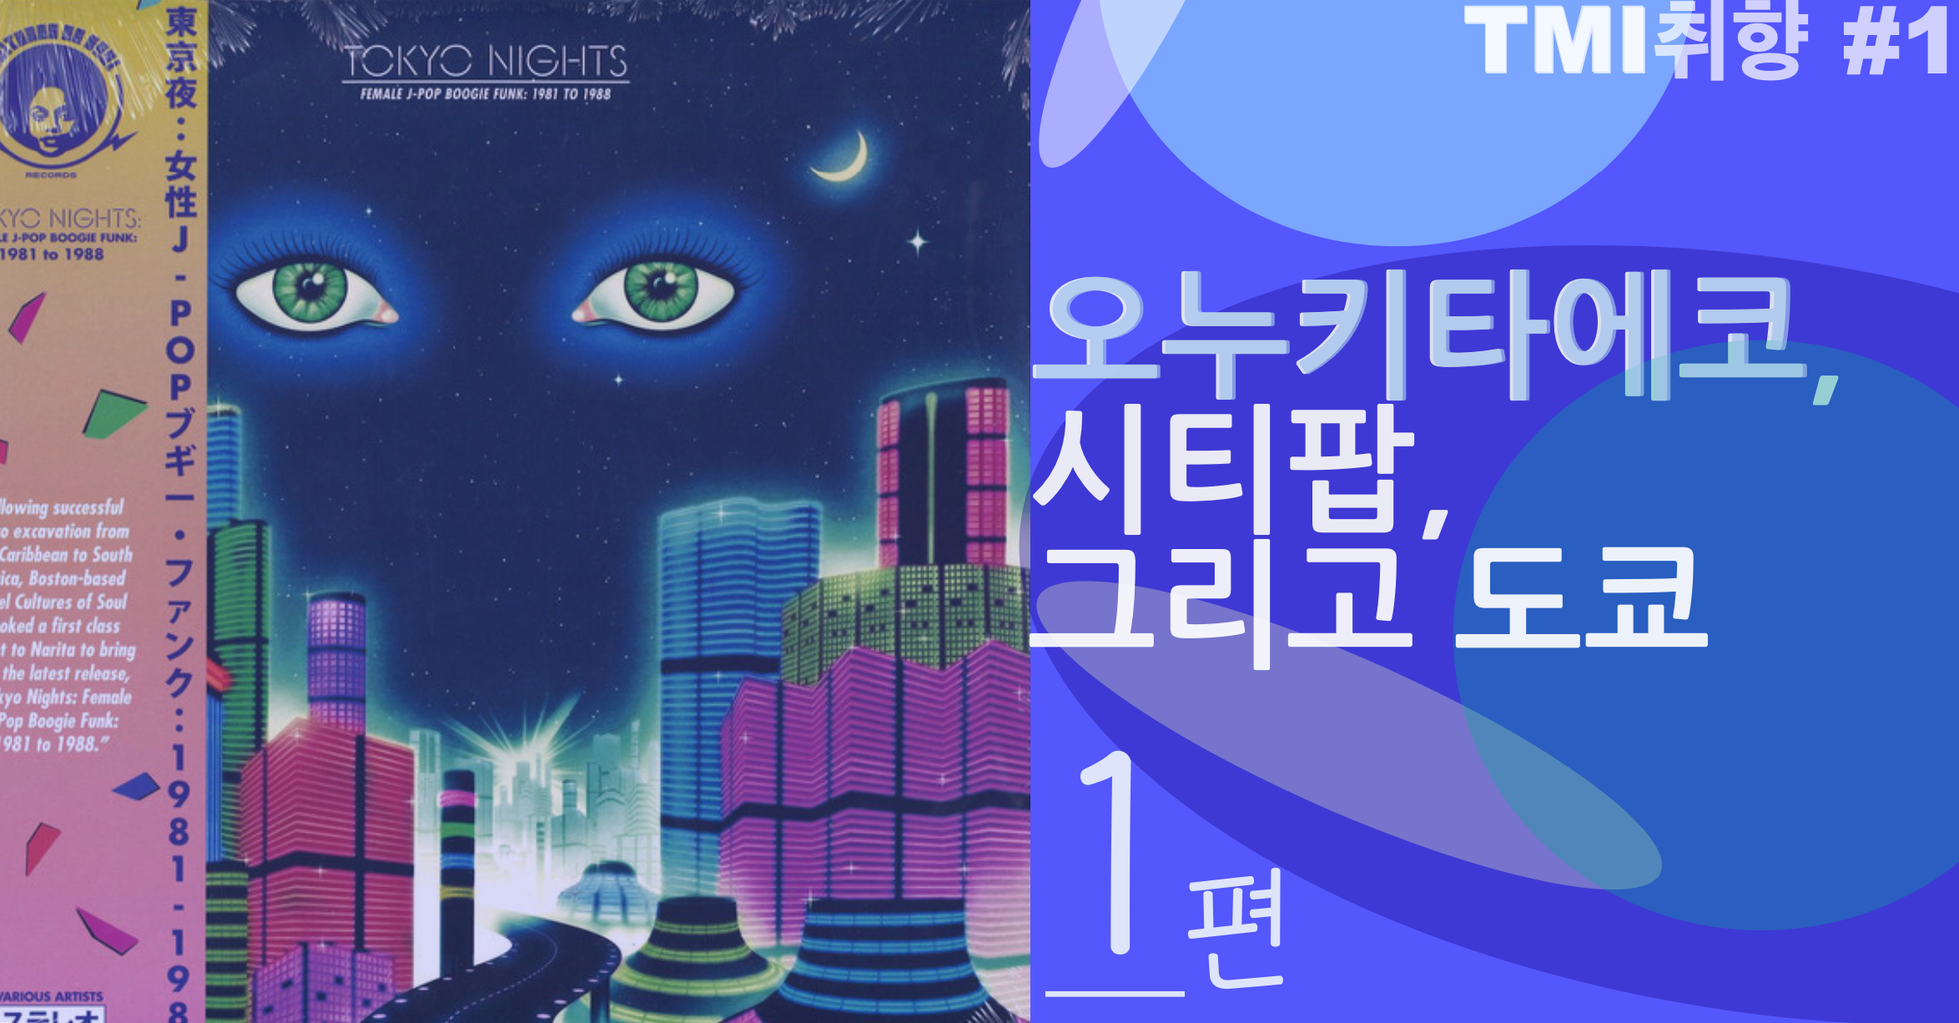
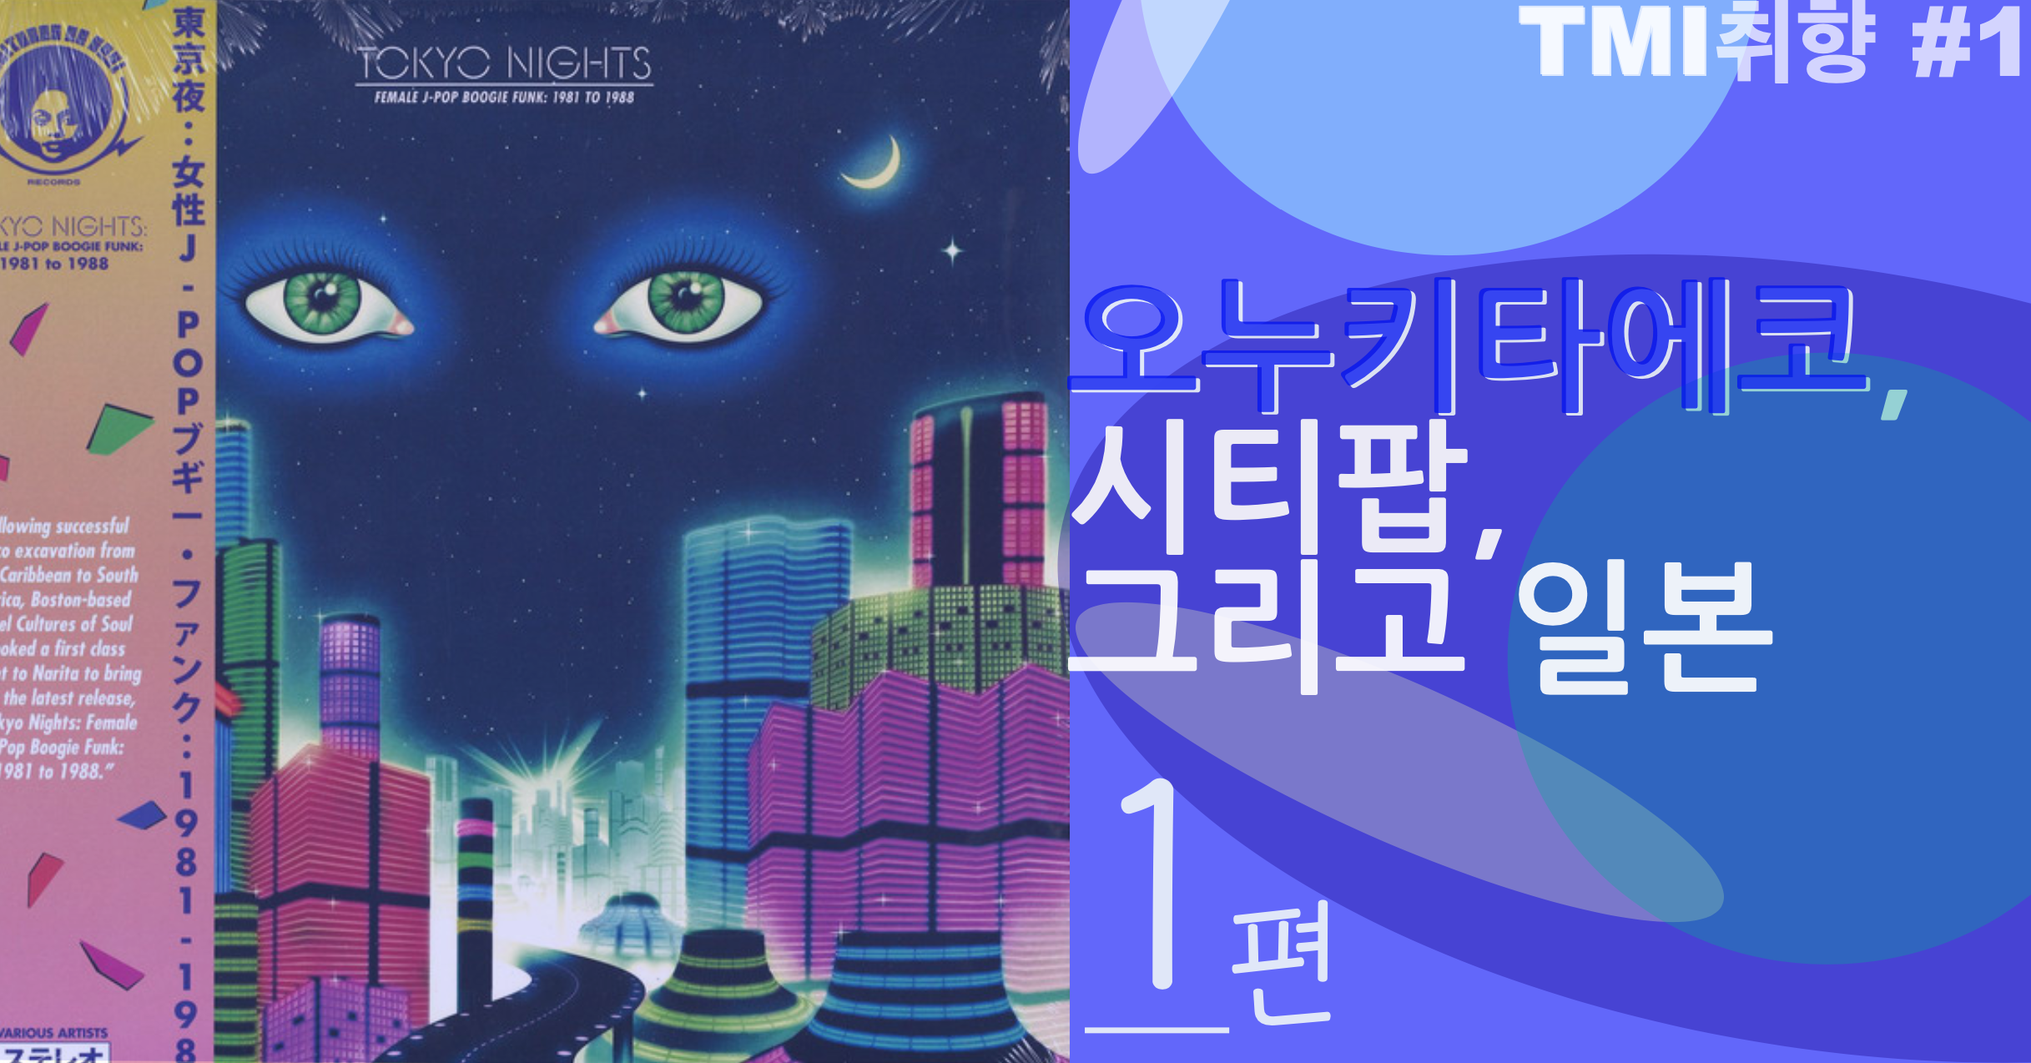
스쿠피포스팅6번(씨티팝)포스팅수정7
썸네일 이미지 변경
글 수정 (거의 마무리 단계)

diff --git a/assets/scss/_global.scss b/assets/scss/_global.scss
@@ -80,7 +80,7 @@ img::-moz-selection {
 
 
 ///넷플릭스 start////
-// 상위메뉴
+// 배경 그레이/ 폰트 빨강색 (큰)
 .highlight_b_red{
   background-color: #b71c1c;
   color: white;
@@ -99,7 +99,7 @@ code{
   font-size: 0.7em;
 }
 
-// 배경 그레이/ 폰트 빨강색 (큰)
+// 배경 그레이/ 폰트 빨강색 (작)
 .highlight_s_red{
   background-color: rgb(248, 248, 248);
   box-sizing: border-box;
@@ -144,12 +144,23 @@ code{
 
 
 ///오누키 타에코///
+// 배경 그레이/ 폰트 청록 (큰)
 .highlight_b_green{
-  background-color: #e0f2f1 ;
+  background-color: #e0f2f1;
   color: black;
   border-radius:4px;
   font-size: 1.3em;
   padding:5px;
+}
+
+// 배경 그레이/ 폰트 청록 (작)
+.highlight_s_green{
+  background-color: rgb(248, 248, 248);
+  box-sizing: border-box;
+  border-radius: 3px;
+  padding: 5px 10px 5px 15px;
+  color: #00897b;
+  font-size: 0.8em;
 }
 
 //오누키타에코 가사//

diff --git a/_posts/2020-06-06-scoopii-06.md b/_posts/2020-06-06-scoopii-06.md
@@ -1,7 +1,7 @@
 ---
 layout: post
 permalink: /tmi1-scoopii-01/
-title: '오누키타에코,시티팝, 그리고 도쿄 <1편>'
+title: '오누키타에코,시티팝, 그리고 일본 <1편>'
 date: 2020-06-07 16:00:00 +09:00
 feature: '/img/posts/06/post6_feature1.png'
 background: '/img/posts/06/post6_background.png'
@@ -21,7 +21,11 @@ tags:
 description: '스쿠피의 취향과 영감을 tmi로 큐레이팅합니다 '
 ---
 
-이하 글들은 스쿠피운영자의 취향과 영감이 두서없이 써내려가져 누군가에겐 정보가, 누군가에겐 tmi가 될 거에요. 어찌되었든 상관없어요. 스쿠피의 취향은 소중하고 당신의 취향도 존중받아 마땅하니까요. 정보가 너무 길다고 생각하시는 분들, 혹은 tmi에 가담해주실 분들은 아래 댓글창에 귀중한 의견을 꼭 남겨주세요 :)
+이하 글들은 스쿠피운영자의 취향과 영감이 두서없이 써내려가져 누군가에겐 정보가, 누군가에겐 tmi가 될 거에요. 어찌되었든 상관없어요. 스쿠피의 취향은 소중하고 당신의 취향도 존중받아 마땅하니까요.
+
+<br>
+
+정보가 너무 길어서 가독성이 없다고 생각하시는 분들, 혹은 tmi에 가담해주실 분들은 아래 댓글창에 귀중한 의견을 꼭 남겨주세요 :)
 
 ----
 
@@ -33,19 +37,27 @@ description: '스쿠피의 취향과 영감을 tmi로 큐레이팅합니다 '
 
 <br>
 
-TMI취향의 첫번째 글은 3편으로 나뉘어질 거에요. 
+TMI취향의 **첫번째 시리즈 제목**은 다음과 같습니다. 글은 총 3번에 나뉘어 포스팅될 예정이에요.
 
-<span style="font-size: 1.1em; background-color: #4db6ac; color: white; padding: 4px; border-radius: 4px;"> 제목: 오누키타에코,시티팝, 그리고 도쿄 1편</span>
+<span style="font-size: 1.1em; background-color: #4db6ac; color: white; padding: 4px; border-radius: 4px;"> 제목: 오누키타에코,시티팝, 그리고 일본 1편</span>
 
->  1편: 오누키타에코
+>  1편: 오누키타에코   `부제: 화려한 도시의 밤과 버블`
 >
 >  2편: 시티팝
 >
->  3편: 도쿄
+>  3편: 일본
 
 <br>
 
-오늘은 그 중에서도 1편인 오누키타에코에 대해 이야기해볼 거에요. 
+오늘은 그 중에서도 1편인 <span class="highlight_s_green">오누키 타에코</span>에 대해 이야기해볼 거에요. 오누키 타에코가 뭐냐구요? 일본어 좀 안다 하시는 분들은 바로 사람이라는 걸 알았을거에요.
+
+<br>
+
+일본의 여성 이름 뒤에는 주로 ~코(子)로 끝나는 경우가 많아요. `에츠코`, `아야코`, 등. 일제강점기 출생 할머니들의 이름 끝에 '자'가 많은 게 이때문이죠. `순자`, `미자`, `연자` 등.
+
+ <br>
+
+처음부터 tmi가 시작되었네요. 무튼, 오누키 타에코는 사람이름이며 일본  <span class="highlight_s_green">시티팝이라고 하면 화자되는 대표적인 아티스트</span>에요.
 
 <br>
 
@@ -69,7 +81,7 @@ TMI취향의 첫번째 글은 3편으로 나뉘어질 거에요.
 
 전 무언가에 집중하면 숨을 참는 편이에요.  그래서 음악을 들으면서 명상하는 습관을 가지게 되었는데, 이 날도 여김없이 그 순간이 필요했어요.
 
-> <span style="font-size: 0.8em;"> 명상은 고등학생일 때 생겨난 저만의 습관이자 취미에요. 항상 똑같은 음악을 들으면서 똑같은 이미지를 머리 속에 상기시켜요. 음악은 `류이치 사카모토의 'A Flower is Not a Flower'`, `이미지는 창 밖 바람에 흔들리는 나무`에요.</span>
+> <span style="font-size: 0.8em;"> 명상은 고등학생일 때 생겨난 저만의 습관이자 취미에요. 항상 똑같은 음악을 들으면서 똑같은 이미지를 머리 속에 상기시켜요. 음악은 `류이치 사카모토의 'A Flower is Not a Flower'`, 이미지는 `창 밖 바람에 흔들리는 나무`에요.</span>
 
 <br>
 
@@ -91,7 +103,15 @@ TMI취향의 첫번째 글은 3편으로 나뉘어질 거에요.
 
 <br>
 
-그게 저와 그녀와의 첫 운명적인 만남이에요. 결국 이 글을 쓰게 된 계기이기도 하구요. 나중에 안 사실인데, 유튜브에서 곧잘 들었던 노래가 하나 있었거든요.  `都会(도시)`라는 노래에요. 그 노래를 불렀던 가수가 오누키 타에코였어요. `진짜 찐 운명...`
+> <span style="font-size: 0.8em;">참고로 이 `UTAU 앨범`은  ''오누키 타에코가 부르는 사카모토류이치의 곡''이에요.</span>
+>
+> <span style="font-size: 0.8em;"> 앨범 타이틀 '우타우'는 일본어로 '노래하다'는 뜻의 동사원형인 '우타우(歌う)'를 알파벳으로 표기한 것이구요.[`C&L뮤직 원문`](https://mobile.newsis.com/view.html?ar_id=NISX20131213_0012589781)</span>
+
+<br>
+
+
+
+그게 저와 그녀와의 첫 운명적인 만남이에요. 결국 이 글을 쓰게 된 계기이기도 하구요. 나중에 안 사실인데, 유튜브에서 곧잘 들었던 노래가 하나 있었거든요.  `都会(도시)`라는 노래에요. 그 노래를 불렀던 가수가 오누키 타에코였어요. `나만 생각하는 찐 운명...`
 
 <br>
 
@@ -111,7 +131,11 @@ TMI취향의 첫번째 글은 3편으로 나뉘어질 거에요.
 
 <br>
 
-위키피디아에 수록된 글을 읽으니 류이치사카모토와  UTAU의 앨범으로 콜라보 한 것이 괜한 우연이 아니었네요. `오래된 짱친이었던 것이야..`
+위키피디아에 수록된 글을 읽으니 류이치사카모토와  UTAU의 앨범으로 콜라보 한 것이 괜한 우연이 아니었네요. `오래된 짱친이었던 것이야..(괜히 흐뭇)`
+
+<br>
+
+그래서 위키피디아에서 가져온 몇 가지 인터뷰 글들을 번역해보았어요. 궁금하신 분들은 읽어보시고, 안 그런 분들은 **볼드**처리한 부분만 읽으셔요!
 
 <br>
 
@@ -127,7 +151,21 @@ TMI취향의 첫번째 글은 3편으로 나뉘어질 거에요.
 
 <br>
 
-이 앨범 중 **都会**라는 노래는 들을 때마다 신기하게도 제가 봤던 온갖 영화들의 장면이 떠올라요.  각 영화 한 편이 아니라 각 영화의 한 장면이요.  경쾌한 재즈풍 멜로디에 어쩐지 슬퍼지는 가사 때문인지도 모르겠어요. 도쿄라는 거대한 대도시 안에서 곳곳이 느껴지던 저의 원인 모를 고독함이 원인일 지도 모르겠구요.  무튼 노래 속 그녀의 목소리가 주는 이미지들이 몇 개 있어요. 오누키는 이 노래에 대한 감회를 이렇게 표현했네요. `이 인터뷰를 읽고, 그녀의 의도에 100%맞게 음악을 감상하고 있었던 절 발견했어요. `
+<center><iframe src="https://giphy.com/embed/ka0pMxG6T6h9lEhlgp" width="480" height="240" frameBorder="0" class="giphy-embed" allowFullScreen></iframe><p><a href="https://giphy.com/gifs/netflix-ka0pMxG6T6h9lEhlgp"></a></p></center><center><span class="ref_url">찐팬의 마음</span></center>
+
+<br>
+
+내가 좋아하는 아티스트들이 서로 좋아할 때 찐팬의 감정이란...너무 흐뭇하네요.
+
+<br>
+
+이 앨범 중 **都会**라는 노래는 들을 때마다 신기하게도 제가 봤던 온갖 영화들과 cf, 일본애니메이션 내 특정 장면들이 떠올라요.
+
+>  <span style="font-size: 0.8em;">경쾌한 재즈풍 멜로디에 어쩐지 **슬퍼지는 가사** 때문인지도 모르겠어요. 도쿄라는 거대한 대도시 안에서 곳곳이 느껴지던 저의 **원인 모를 고독함**이 원인일 지도 모르겠구요.  </span>
+
+<br>
+
+무튼 노래 속 그녀의 목소리가 주는 이미지들이 몇 개 있어요. 오누키는 이 노래에 대한 감회를 이렇게 표현했네요. `이 인터뷰를 읽고, 그녀의 의도에 100%맞게 음악을 감상하고 있었던 절 발견했어요. `
 
 <br>
 
@@ -157,7 +195,7 @@ TMI취향의 첫번째 글은 3편으로 나뉘어질 거에요.
 | 夜明けまで           |      | <span class="table1">새벽녘까지</span> |
 | 付き合うと言うの     |      | <span class="table1">만나자고 하는거야</span> |
 |  | |  |
-| 泡のように増え続け   |      | <span class="table1">거품처럼 계속 부풀어올라</span> |
+| 泡のように増え続け   |      | <span class="table1"><span class="highlight_s_green">거품</span>처럼 계속 부풀어올라</span> |
 | あてもない人の洪水 |      | <span class="table1">정처없이 떠도는 수많은 사람들</span> |
 | 不思議な裏の世界     |      | <span class="table1">불가사의한 밤의 세계와</span> |
 | 私はさよならする     |      | <span class="table1">나는 작별할래</span> |
@@ -174,37 +212,123 @@ TMI취향의 첫번째 글은 3편으로 나뉘어질 거에요.
 
 <br>
 
-전 가사를 읽으니 70-80년대 일본 열도를 휘감고 있었던, 그 `경제적 낙관주의`가 만들어 낸  당시 도시의 화려한 풍경들이 생각났어요.
+저의 경우, 가사를 읽으니 70-80년대 일본 열도를 휘감고 있었던, 그 <span class="highlight_s_green">경제적 낙관주의</span>가 만들어 낸  당시 도시의 화려한 풍경들이 생각나더라구요.
 
 <br>
 
-<center><img src="/img/posts/06/Jp1.png" style="width:50%; height: 100%;"></center>
+한 때, 각종 포털이나 커뮤니티사이트에서 **일본의 60년대가 한국의 90년대**라는 글이 화제가 된 적이 있었잖아요. 아래 사진들을 보면 정말 20년 앞서가고 있는 나라라는 문장이 이해가 되더라구요.
 
-<center><span class="ref_url">1970년 오사카엑스포공원</span></center>
+![tokyo60_01](/img/posts/06/tokyo1.png)
 
+![tokyo60_02](/img/posts/06/tokyo2.png)
 
+<img src="/img/posts/06/tokyo3.jpg" style="width:100%;"> 
 
-<center><img src="/img/posts/06/Jp2.png" style="width:50%; height: 100%;"></center>
-
-<center><span class="ref_url">1977년 도쿄</span></center>
+<img src="/img/posts/06/tokyo4.jpg" style="width:100%;"> 
 
 <br>
 
->  <span style="font-size: 0.8em;">일본은 1950년 이후로 눈부신 경제성장을 이루어냈죠. 한국과는 다르게말이에요. 한국은 일본으로부터 독립한 후 곧바로 6.25전쟁을 치루었잖아요.  부모님이 흔히 말씀하시곤 했던 `"그 땐 먹고살기 바빠"` 나라의 경제를 돌 볼 여유가 없었죠.  </span>
+>  <span style="font-size: 0.8em;">그래서, 이 노래를 들을때면 그 때 그 화려한 도시의 젊은이들과 이를 덧없게 쓸쓸하게 바라보는 한 여자가 떠오른달까요?</span>
+
+<br>
+
+또, 한때 일본의 <span class="highlight_s_green">치비마루코짱</span>과 한국의 <span class="highlight_s_green">검정고무신</span>을 비교한 글도 화제가 됐었죠. 두 애니메이션 모두 60년대 후반~70년대 초반을 배경으로 한 애니에요. 
+
+> *  <span style="font-size: 0.8em;">같은 1960~1970년대를 배경으로 한 검정 고무신, 치비마루코짱을 서로 비교해보면 당시 한일 양국간의 경제적, 문화적, 사회적 격차를 짐작할 수 있어요. </span>
 >
->  <span style="font-size: 0.8em;">반면, 6.25전쟁은 일본에게 있어 `신이 내린 기회`였어요. 한국은 당시 전쟁으로 인하여 내부적으로 군수차량 및 물품생산의 수요가 있었고, 일본의 도요타는 이 기회를 놓치지 않았죠. 자동찬 생산기술의 발전이 시작된 첫 시발점이라고 볼 수 있겠네요.</span>
+> * <span style="font-size: 0.8em;">같은 시기에 한국은 이제 막 전쟁의 상처를 지워내고 본격적인 산업화에 돌입했던 반면, 일본은 [1958 도쿄 아시안 게임](https://namu.wiki/w/1958 도쿄 아시안 게임)과 [1964 도쿄 올림픽](https://namu.wiki/w/1964 도쿄 올림픽)을 통해 화려한 부활을 알린 뒤, [1970 오사카 엑스포](https://namu.wiki/w/1970 오사카 엑스포)까지 개최하면서 선진국 대열에 진입하기 시작했죠.</span>
 >
+> * <span style="font-size: 0.8em;">'일억총중류'(一億総中流)라는 말까지 생겨날 정도로 중산층이 두터워지고 삶의 질이 상향 평준화되기 시작한 시대였어요. </span>
+
+<br>
+
+<img src="http://file3.instiz.net/data/file3/2018/06/26/8/8/2/8820ce1d672d8dd8911a5f0ca9fa80e3.jpg"><center><span class="ref_url">당시 애니메이션에서 보여진 기영이의 동네</span></center>
+
+검정 고무신의 배경인 기영이의 동네는 당시 우리 사회 어느 곳에서나 볼 수 있는 그저 평범한 동네에요. 시기는 좀 다르지만 <span class="highlight_s_green">응답하라 1988</span>의 덕선이가 살던 동네도 생각이 나네요. 
+
+<br>
+
+>  <img src="/img/posts/06/1988_1.png"><center><span class="ref_url">응답하라 1988의 장면_01</span></center>
+
+>  <img src="/img/posts/06/1988_2.png"><center><span class="ref_url">응답하라 1988의 장면_02</span></center>
+
+<br>
+
+자, 다시 기영이네로 돌아와보죠. 
+
+<br>
+
+<img src="/img/posts/06/ko_ani1.png"><center><span class="ref_url">연탄으로 겨울을 나는 기영이네</span></center>
+
+<img src="/img/posts/06/ko_ani2.png"><center><span class="ref_url">학교에서 나누어주는 옥수수빵</span></center>
+
+<br>
+
+반면, 치비마루코짱에서 마루코네가 평소 먹는 음식과 배경은 지금의 생활양식과도 비슷해보이죠. 
+
+<br>
+
+<img src="/img/posts/06/jp_ani1.png"><center><span class="ref_url">마루코네가 먹는 평소 음식들__01</span> </center>
+
+<img src="/img/posts/06/jp_ani2.png"><center><span class="ref_url">마루코네가 먹는 평소 음식들__02</span> </center>
+
+<img src="/img/posts/06/jp_ani3.png"><center><span class="ref_url">학교에서 먹는 급식: 빵과 수프 푸딩 우유 등</span></center>
+
+<br>
+
+같은 시기에 나온 애니메이션에 나온 양국의 격차가 정말 가시적이죠? 그럼 일본은 왜이렇게나 성장할 수 있었던 걸까요?  
+
+<br>
+
+일본은 1950년 이후로 눈부신 경제성장을 이루어 나라에요. 한국과는 다르게말이에요. 한국은 일본으로부터 독립한 후 곧바로 6.25전쟁을 치루었잖아요.  부모님이 흔히 말씀하시곤 했던 <span class="highlight_s_green">"그 땐 먹고살기 바빠서"</span> 나라의 경제를 돌 볼 여유가 없었죠.  
+
+<br>
+
+반면, 6.25전쟁은 일본에게 있어 <span class="highlight_s_green">신이 내린 기회</span>였어요. 한국은 당시 전쟁으로 인하여 내부적으로 군수차량 및 물품생산의 수요가 있었고, 일본의 도요타는 이 기회를 놓치지 않았죠. 자동찬 생산기술의 발전이 시작된 첫 시발점이라고 볼 수 있겠네요.
+
 >  <span style="font-size: 0.8em;">도요타(TOYOTA) 자동차 회사를 창립한 도요타 키이치로(豊田喜一郎/ Kiichiro Toyoda)에 관해 기록된 [*＜自動車人物伝＞*](https://gazoo.com/article/car_history/140310.html)에 따르면, 6.25전쟁이 터지자 미국으로부터 트럭주문이 쇄도해 1951년 3월 결산 때 약 2억 5000만엔(약 28억)의 순이익을 올렸다고 하죠. </span>
 >
 >  > <span style="font-size: 0.6em; color: #00838f;">원문: 朝鮮戦争がぼっ発し、米軍からトラックの注文が殺到したのだ。業績はV字回復し、1951年3月の決算では約2億5000万円の純利益をあげるに至った。</span>
 
 <br>
 
-''거품처럼 계속 부풀어올라' `泡のように増え続け  `의 가사는 어쩌면 당시 고도 성장기의 일본의 허황된 자본력이 거품처럼 부풀어오르는 모습일 지도 모르겠어요. 나른하면서 통통튀는 멜로디에 비해 가사 속 현실은 유쾌하지 않아요. 일본 특유의 감성인 허무함, 덧없음(`虚しさ`)이 느껴진달까요?
+하지만, 부동의 선진국으로 쭈욱 유지할 것만 같았던 일본에게도 시련은 찾아와요. 가사 속에도 나오는 단어로 설명할 수 있겠네요.
 
 <br>
 
-듣고나면 머리속에 그려지는 이미지들이 몇 개 있는데, 이 부분은 3편에서 하도록하죠. 2편에선 시티팝에 대해 다루어볼게요! 그럼 다음 편에서 만나요 :-)
+바로 거품, 즉 <span class="highlight_s_green">버블</span>이죠. 1980년대 일본의 주식과 부동산 전반에 나타났던 거품경제는 1985년에서 1992년까지 **비정상적인 가치상승** 현상을 보여요. 이 때 일본의 부동산 광풍은 열도를 넘어섰답니다. 
+
+<br>
+
+일본의 미츠비시가 미국의 <span class="highlight_s_green">**록펠러센터**</span>를 매입했고, 미국인 투자자와 일본인이 파트너쉽을 체결하여 <span class="highlight_s_green">**엠파이어스테이트빌딩**</span>을 매입했죠. 록펠러센터와 엠파이어스테이트빌딩은 뉴욕을 가보지 못한 사람들도 할리우드 영화를 통해서 많이 접해봤을 거에요. 
+
+> <span class="highlight_s_green">록펠러센터(Rockefeller Center)</span> : 
+>
+> > <span style="font-size: 0.8em;">미국 뉴욕 맨해튼 5번가와 6번가 사이에 있는 초고층건물들로 구성된 복합시설. 1987년 미국 역사기념물로 선언됨. **억만장자 존 D.록펠러**에 의해 **1931년**에 건설됨. </span>
+
+<img src="/img/posts/06/ny_1.png"><center><span class="ref_url">록펠러센터 건설 당시 공사현장에서 찍힌 "Lunch Atop A Skyscarper"사진을 패러디한 미드 <프렌즈>
+
+<img src="/img/posts/06/ny_2.png"><center><span class="ref_url">영화 <나홀로집에 2>에서 케빈과 엄마가 만나는 장면</span></center>
+
+<img src="/img/posts/06/ny_3.png"><center><span class="ref_url">영화 <스파이더맨>에서 스파이더맨이 위기에 처한 제인왓슨(여주)를 록펠러센터 루프가든에 데려다 놓는 장면
+
+<br>
+
+하지만 이 모든 게 <span class="highlight_s_green">거품</span>이었던 게 문제였죠. 
+
+이 거품이 붕괴되면서 **1,500조엔(한화 1경5천조원)의 자산이 공중분해**되었으니까요. 그 결과 인구고령화, 금융시장의 부실화, 디플레이션 등 여러 요인이 결합해 지금까지도 일본사회에 영향을 미치고 있죠. 
+
+<br>
+
+오누키 타에코의 ''거품처럼 계속 부풀어올라' `(泡のように増え続け)  `의 가사는 어쩌면 당시 고도 성장기의 일본의 허황된 자본력이 거품처럼 부풀어오르는 모습일 지도 모르겠어요. 나른하면서 통통튀는 멜로디에 비해 가사 속 현실은 유쾌하지 않아요. 일본 특유의 감성인 허무함, 덧없음(`虚しさ`)이 느껴진달까요?
+
+<br>
+
+듣고나면 머리속에 이 <span class="highlight_s_green">거품</span>의 이미지를 그려낸 몇몇 미디어콘텐츠들의 장면이 생각나는데, 이 부분은 3편에서 하도록하죠. 
+
+<br>
+
+2편에선 일본에 버블경제가 만들어지면서 생겨난 <span class="highlight_s_green">일본만의 음악장르인 시티팝</span>에 대해 다루어볼게요! 그럼 다음 편에서 만나요 :-)
 
 <br>
 
